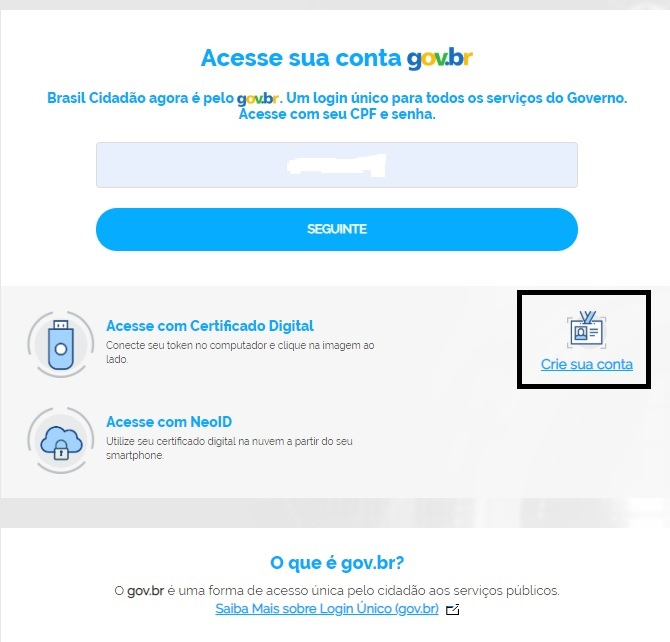
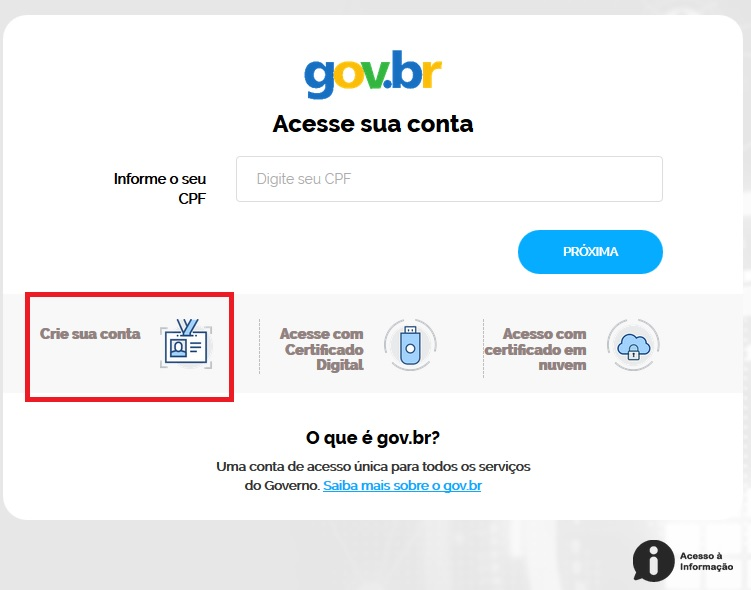
Alteracoes para Login Unico

diff --git a/_perguntasdafaq/contaacesso.rst b/_perguntasdafaq/contaacesso.rst
@@ -1,41 +1,47 @@
 Conta de acesso
 ===============
 
-Para criar uma conta de acesso, clique no botão `Fazer Cadastro`_ |site externo| e siga os passos:
+Para criar uma conta de acesso, clique no link `Crie sua conta`_ |site externo| e siga os passos:
 
-.. figure:: _images/telainicialcombotaofazercadastro.jpg
+.. figure:: _images/telainicialcombotaofazercadastrogovbr.jpg
    :align: center
    :alt: Tela de acesso inicial do Login Único com destaque do botão Fazer Cadastro em destaque
 
 1. Tenha em mãos um documento de identidade, número do CPF, nome completo, e-mail e número do celular e clique no botão continuar
 
-.. figure:: _images/telafazercadastrocombotaocontinuar.jpg
+.. figure:: _images/telafazercadastrocombotaocontinuargovbr.jpg
    :align: center
    :alt: Tela de inicio do cadastro com os campos CPF, nome, e-mail, CAPTCHA e botão CONTINUAR destacado. Na mesma tela possui referência para criação por meio do Certificado Digital e Certificado Digital NEOID
 
 2. Responda as perguntas relacionadas às suas informações pessoais.
 
-.. figure:: _images/perguntascadastroinicial.jpg
+.. figure:: _images/perguntascadastroinicialgovbr.jpg
    :align: center
    :alt: Tela com as perguntas serem respondidas pelo cidadão para confirmação do cadastro. As perguntas são Qual o Ano de Nascimento?, Qual o primeiro nome da Mãe?, Qual seu mês de nascimento?
 
-3. Após a verificação das respostas, a Plataforma enviará email para ativação da conta.
+3. Após a verificação das respostas, a Plataforma enviará uma mensagem para email ou para número do celular. A opção SMS só estará ativa se o número de celular tiver sido informado, conforme passo 1.
 
-.. figure:: _images/envioemailcadastrarsenha.jpg
+.. figure:: _images/envioemailcadastrarsenhagovbr.jpg
    :align: center
-   :alt: Tela com confirmação do e-mail a ser encaminhada. Os elementos presentes são e-mail com partes misturadas (evitar identificação) e os botões CONFIRMAR e CANCELAR
+   :alt: Tela com confirmação do e-mail a ser encaminhada. Os elementos presentes são e-mail com partes misturadas (evitar identificação) e SMS com partes misturadas (evitar identificação) com os botões CONFIRMAR e CANCELAR   
 
-4. Abra o seu e-mail e clique no link enviado (confira na caixa de spam caso não esteja na caixa de entrada)
+4. Caso tenha escolhido a opção do email, abra o seu e-mail e clique no link enviado (confira na caixa de spam caso não esteja na caixa de entrada)
 
 .. figure:: _images/emailcomlinkparasenha.jpg
    :align: center
-   :alt: Texto do email encaminhado ao cidadão para realizar o cadastramento da conta. O texto do email é "Assunto com Brasil Cidadão: confirmação do cadastro e texto para indicar a forma de cadastramento com link" 
+   :alt: Texto do email encaminhado ao cidadão para realizar o cadastramento da conta. O texto do email é "Assunto com gov.br: confirmação do cadastro e texto para indicar a forma de cadastramento com link" 
 
-5. Definir uma senha e finalizar o cadastro e ativar sua conta.
+5. Caso tenha escolhido a opção do SMS, conferir a mensagem recebida no celular informado e digitar o código no campo **Informe o código de validação** e clique no botão **Validar Cadastro**
 
-.. figure:: _images/telacadastramentosenha.jpg
+.. figure:: _images/teladigitarsmsparaconfirmacao.jpg
    :align: center
-   :alt: Tela para ativação do cadastro, tendo um descritivo para orientar como cadastrar a senha e os campos CPF, SENHA, REPETIR SENHA e os botões CRIAR SENHA ou CANCELAR. 
+   :alt: Tela de confirmação do código SMS com os botões Cancelar, Validar Cadastro e Não recebi o SMS
+   
+6. Definir uma senha e finalizar o cadastro e ativar sua conta.
+
+.. figure:: _images/telacadastramentosenhagovbr.jpg
+   :align: center
+   :alt: Tela para ativação do cadastro e os campos CPF, SENHA, REPETIR SENHA e os botões CRIAR SENHA ou CANCELAR. 
 
 Caso você tenha um certificado digital pessoa física compatível com a ICP-Brasil, você poderá usá-lo no seu primeiro cadastro començando pelo passo 2.
 
@@ -62,6 +68,6 @@ Caso você tenha um certificado digital pessoa física compatível com a ICP-Bra
 - peço pra trocar a senha ai ele diz acrescentar cpf. Quando aperto em criar senha ai ele diz cpf invalido
 - 
 
-.. _`Fazer Cadastro`: https://portal.brasilcidadao.gov.br/servicos-cidadao/acesso/#/primeiro-acesso
+.. _`Crie sua conta`: https://acesso.gov.br/acesso/#/primeiro-acesso
 .. |site externo| image:: _images/site-ext.gif
             

diff --git a/_perguntasdafaq/naorecebioemaildeconfirmacao.rst b/_perguntasdafaq/naorecebioemaildeconfirmacao.rst
@@ -1,35 +1,46 @@
 Não recebi e-mail de confirmação
 ================================
 
-Pode ter ocorrido:
-
-- E-mail inválido (erro de digitação) ou; 
+- SMS ou E-mail inválido (erro de digitação) ou; 
 - E-mail de confirmação está na sua caixa de spam (Lixo Eletrônico) ou;
 - E-mail de confirmação ainda não chegou na sua caixa de e-mail ou;
+- SMS de confirmação depende da funcionalidade de mensagem está disponível ao celular pela operadora ou;
+- SMS de confirnação depende de créditos disponíveis no plano de celular para recebimento de mensagens.   
 
 Dependendo do serviço de e-mail ,pode demorar até 24 horas para chegar na caixa de e-mail.
 
-.. Caso não tenha recebido o e-mail, encaminhar e-mail para cidadaniadigital@planejamento.gov.br e informe o problema com detalhes. (comentado conforme orientação do Hudson)
+Dependendo do serviço de SMS, pode não receber a mensagem de imediato. Aguardar alguns minutos para verificar novo envio.
 
 **Possíveis Palavras/Termos (Utilizado para busca no chatbot)**
 
 - e-mail de confirmação
+- SMS de confirmação
 - erro de digitação
 - caixa de spam
 - e-mail errado
 - lixo eletrônico
 - não chegou confirmação
 - cadastrei-me e não recebi o e-mail de confirmação
+- cadastrei-me e não recebi o SMS de confirmação
 - não recebi o e-mail
+- não recebi o SMS
 - não recebi a confirmação
 - não veio e-mail de confirmação
+- não veio SMS de confirmação
 - para onde vai o e-mail de confirmação
 - para onde foi e-mail de confirmação
+- para onde vai o SMS de confirmação
+- para onde foi SMS de confirmação
 - onde está o e-mail de confirmação
 - cade e-mail de confirmação
+- onde está o SMS de confirmação
+- cade SMS de confirmação
 - cade a confirmação
 - Não chegou nenhum e-mail
 - Não recebo o e-mail
+- Não chegou nenhum SMS
+- Não recebo o SMS  
+
 
 .. |site externo| image:: _images/site-ext.gif
             

diff --git a/_perguntasdafaq/epossivelcriarcontadeacessocomcertificadodigital.rst b/_perguntasdafaq/epossivelcriarcontadeacessocomcertificadodigital.rst
@@ -1,11 +1,11 @@
 É possível criar conta de acesso com certificado digital?
 =========================================================
 
-Sim. Acesse `Fazer Cadastro`_ |site externo| e clique nas opçoes “Cadastro com Certificado Digital” ou "Cadastro com Certificado Digital com NEOID". 
+Sim. Acesse `Crie sua conta`_ |site externo| e clique nas opçoes “Cadastro com Certificado Digital” ou "Cadastro com Certificado em Nuvem". 
 
-.. figure:: _images/telacadastrocomcertificadodigital.jpg
+.. figure:: _images/telacadastrocomcertificadodigitalgovbr.jpg
    :align: center
-   :alt: Tela de realizar cadastro com destaque para as funcionalidades Cadastro com Certificado Digital e Cadastro com Certificado Digital NEOID
+   :alt: Tela de realizar cadastro com destaque para as funcionalidades Cadastro com Certificado Digital e Cadastro com Certificado em Nuvem
 
 O Certificado digital aceito pelo Brasil Cidadão é dos tipos A1 e A3. 
 
@@ -25,7 +25,7 @@ O Certificado digital aceito pelo Brasil Cidadão é dos tipos A1 e A3.
 - não consigo entrar com o certificado digital
 - Estou tentando entrar com certificado digital, porém não tenho êxito  
 
-.. _`Fazer Cadastro` : https://portal.brasilcidadao.gov.br/servicos-cidadao/acesso/#/primeiro-acesso
+.. _`Crie sua conta` : https://acesso.gov.br/acesso/#/primeiro-acesso
 .. _`drive do certificado digital` : https://certificados.serpro.gov.br/arserpro/pages/information/drivers_token_download.jsf?
 .. |site externo| image:: _images/site-ext.gif
             

diff --git a/_perguntasdafaq/mensagemousuariojapossuicadastronosistema.rst b/_perguntasdafaq/mensagemousuariojapossuicadastronosistema.rst
@@ -5,25 +5,25 @@ Algum momento o cidadão realizou o cadastro no Login Único. Não existe opçã
 
 Caso não lembre da senha, favor realizar os passos:
 
-- Recuperar senha acessando `Esqueceu sua senha?`_ |site externo|:
+- Recuperar senha acessando `Esqueci minha senha?`_ |site externo|:
 
-.. figure:: _images/telaincialcomesqueceusenha.jpg
+.. figure:: _images/telaincialcomesqueceusenhagovbr.jpg
    :align: center
    :alt: Tela inicial do Login Único com destaque no link Esqueceu sua senha?. O link está localizado abaixo do campo SENHA presente na tela.
    
 - Informe seu CPF e clique em continuar.
 
 
-.. figure:: _images/telaesquecisenhacomcaptcha.jpg
+.. figure:: _images/telaesquecisenhacomcaptchagovbr.jpg
    :align: center
    :alt: Tela ativa para solicitar recuperação da senha com campo Informe o CPF, CAPTCHA e os botões CONTINUAR e CANCELAR 
 
-Ao fazer isso, a senha do CPF irá para o e-mail cadastrado na conta do Login Único.
+Ao fazer isso, será feito o procedimento para recuperar senha por meio do email ou telefone cadastrado.
 
 **Possíveis Palavras/Termos (Utilizado para busca no chatbot)**
 
 - Mensagem: O usuário já possui cadastro no Sistema; 
  
-.. _`Esqueceu sua senha?`: https://portal.brasilcidadao.gov.br/servicos-cidadao/acesso/#/recuperarSenha
+.. _`Esqueci minha senha?`: https://acesso.gov.br/acesso/#/recuperarSenha
 .. |site externo| image:: _images/site-ext.gif
             

diff --git a/_perguntasdafaq/alterardadoscadastrais.rst b/_perguntasdafaq/alterardadoscadastrais.rst
@@ -3,12 +3,21 @@
 
 Atualize seus dados dentro do Login Único na opção “Alteração de dados cadastrais” na tela principal.
 
-.. figure:: _images/alteracaodadoscadastrais.jpg
+.. figure:: _images/alteracaodadoscadastraisgovbr.jpg
    :align: center
    :alt: Tela da alteração de dados cadastrais ativa com os campos CPF, nome completo, email, telefone celular
 
-Pode alterar o nome, e-mail e telefone. 
+Pode alterar o nome, e-mail e telefone.
 
+Para o email e telefone, existe a necessidade de validação para realizar o cadastro. Deverá clicar no botão **Validar Email** ou **Validar Telefone**  
+
+Na alteração, o Login Único solicitará digitação de uma código encaminhado para email ou celular a ser cadastrado
+
+.. figure:: _images/alteracaocadastraldigitarcodigogovbr.jpg
+   :align: center
+   :alt: Tela da alteração de dados cadastrais com solicitação para digitar o código
+
+   
 **Possíveis Palavras/Termos (Utilizado para busca no chatbot)**
 
 - alteração de dados cadastrais

diff --git a/_perguntasdafaq/esqueciminhasenha.rst b/_perguntasdafaq/esqueciminhasenha.rst
@@ -1,9 +1,9 @@
 Esqueci minha senha?
 ====================
 
-Você pode recuperar senha acessando `Esqueceu sua senha?`_ |site externo|:
+Você pode recuperar senha acessando `Esqueci minha senha?`_ |site externo|:
 
-.. figure:: _images/telaincialcomesqueceusenha.jpg
+.. figure:: _images/telaincialcomesqueceusenhagovbr.jpg
    :align: center
    :alt: Tela inicial do Login Único com destaque no link Esqueceu sua senha?. O link está localizado abaixo do campo SENHA presente na tela.
 
@@ -35,6 +35,6 @@ Tenha em mãos o número do seu CPF.
 - Recuperação login
 - Não consigo acessar meu cadastro  
 
-.. _`Esqueceu sua senha?` : https://portal.brasilcidadao.gov.br/servicos-cidadao/acesso/#/recuperarSenha
+.. _`Esqueci minha senha?` : https://acesso.gov.br/acesso/#/recuperarSenha
 .. |site externo| image:: _images/site-ext.gif
             

diff --git a/index.rst b/index.rst
@@ -17,6 +17,8 @@ FAQ Login Único
    _perguntasdafaq/possoutilizarqualquerservicopublico
    _perguntasdafaq/existeloginparapessoajuridica
    _perguntasdafaq/comocadastrarCNPJnologinunico
+   _perguntasdafaq/cadastrocolaboradordocnpj
+   _perguntasdafaq/retirarcolaboradordocnpj
    _perguntasdafaq/oqueeautorizacaodeusodedados
    _perguntasdafaq/contaacesso
    _perguntasdafaq/obtermaisconfiabilidadenacontadeacesso
@@ -41,5 +43,3 @@ FAQ Login Único
    _perguntasdafaq/porquemfoicriado
    _perguntasdafaq/naotenhoacessoaoemailcadastradonologin
 .. _perguntasdafaq/erronologinunico (comentado conforme orientação do Hudson)
-.. _perguntasdafaq/cadastrocolaboradordocnpj
-.. _perguntasdafaq/retirarcolaboradordocnpj

diff --git a/_perguntasdafaq/oqueeautorizacaodeusodedados.rst b/_perguntasdafaq/oqueeautorizacaodeusodedados.rst
@@ -3,7 +3,7 @@
 
 A autorização de uso de dados do cidadão é o ato de permitir que um determinado serviço público digital receba ou acesse seus dados pessoais de identificação ou complementares como por exemplo, registro geral RG, número do CPF, endereço, nome completo, etc.
 
-.. figure:: _images/autorizacao-uso-dados-pessoais.jpg
+.. figure:: _images/autorizacao-uso-dados-pessoaisgovbr.jpg
    :align: center
    :alt: Tela com demonstração da autorização de dados apresentada para usuário antes de acessar o serviço público. Possui um texto declarando a situação e os botões de autorizar ou negar o serviço 
 

diff --git a/_perguntasdafaq/porquaismeiospossoacessar.rst b/_perguntasdafaq/porquaismeiospossoacessar.rst
@@ -9,7 +9,7 @@ O Login Único pode ser acessado por:
 
 Acesso ao `Login Unico`_ |site externo|   
 
-.. figure:: _images/tela_inicial_brasil_cidadao.jpg
+.. figure:: _images/telainicialgovbr.jpg
    :align: center
    :alt: Tela Inicial do Login Único
 
@@ -29,7 +29,7 @@ Acesso ao `Login Unico`_ |site externo|
 - quero usar o login único/Brasil Cidadão/govbr no celular/smartphone/mobile
 - não tenho computador e quero usar o celular/smartphone/mobile 
 
-.. _`Login Unico`: https://scp.brasilcidadao.gov.br/scp/login
+.. _`Login Unico`: https://acesso.gov.br
 
 .. |site externo| image:: _images/site-ext.gif
             

diff --git a/_perguntasdafaq/naoconsigocadastrarsenha.rst b/_perguntasdafaq/naoconsigocadastrarsenha.rst
@@ -17,7 +17,7 @@ Evite senhas comuns como:
 
 Para o cadastramento da senha, o Login Único solicita o preenchimento da senha no campo **Nova Senha** e repeti-lá o campo **Repita a senha** e depois clicar no botão **CRIAR SENHA**.
 
-.. figure:: _images/telacadastramentosenha.jpg
+.. figure:: _images/telacadastramentosenhagovbr.jpg
    :align: center
    :alt: Tela com apresentação dos campos CPF, escolher senha, repetir senha escolhida para permitir o cadastramento da senha
 

diff --git a/_perguntasdafaq/termodeusoeprivacidade.rst b/_perguntasdafaq/termodeusoeprivacidade.rst
@@ -3,7 +3,7 @@
 
 Para acessar o termo de uso e privacidade do Login Único, acesse `Termos de Uso e Política de Privacidade`_ na area de Fazer Cadastro
 
-.. figure:: _images/usotermospoliticaeprivacidade.jpg
+.. figure:: _images/usotermospoliticaeprivacidadegovbr.jpg
    :align: center
    :alt:
 
